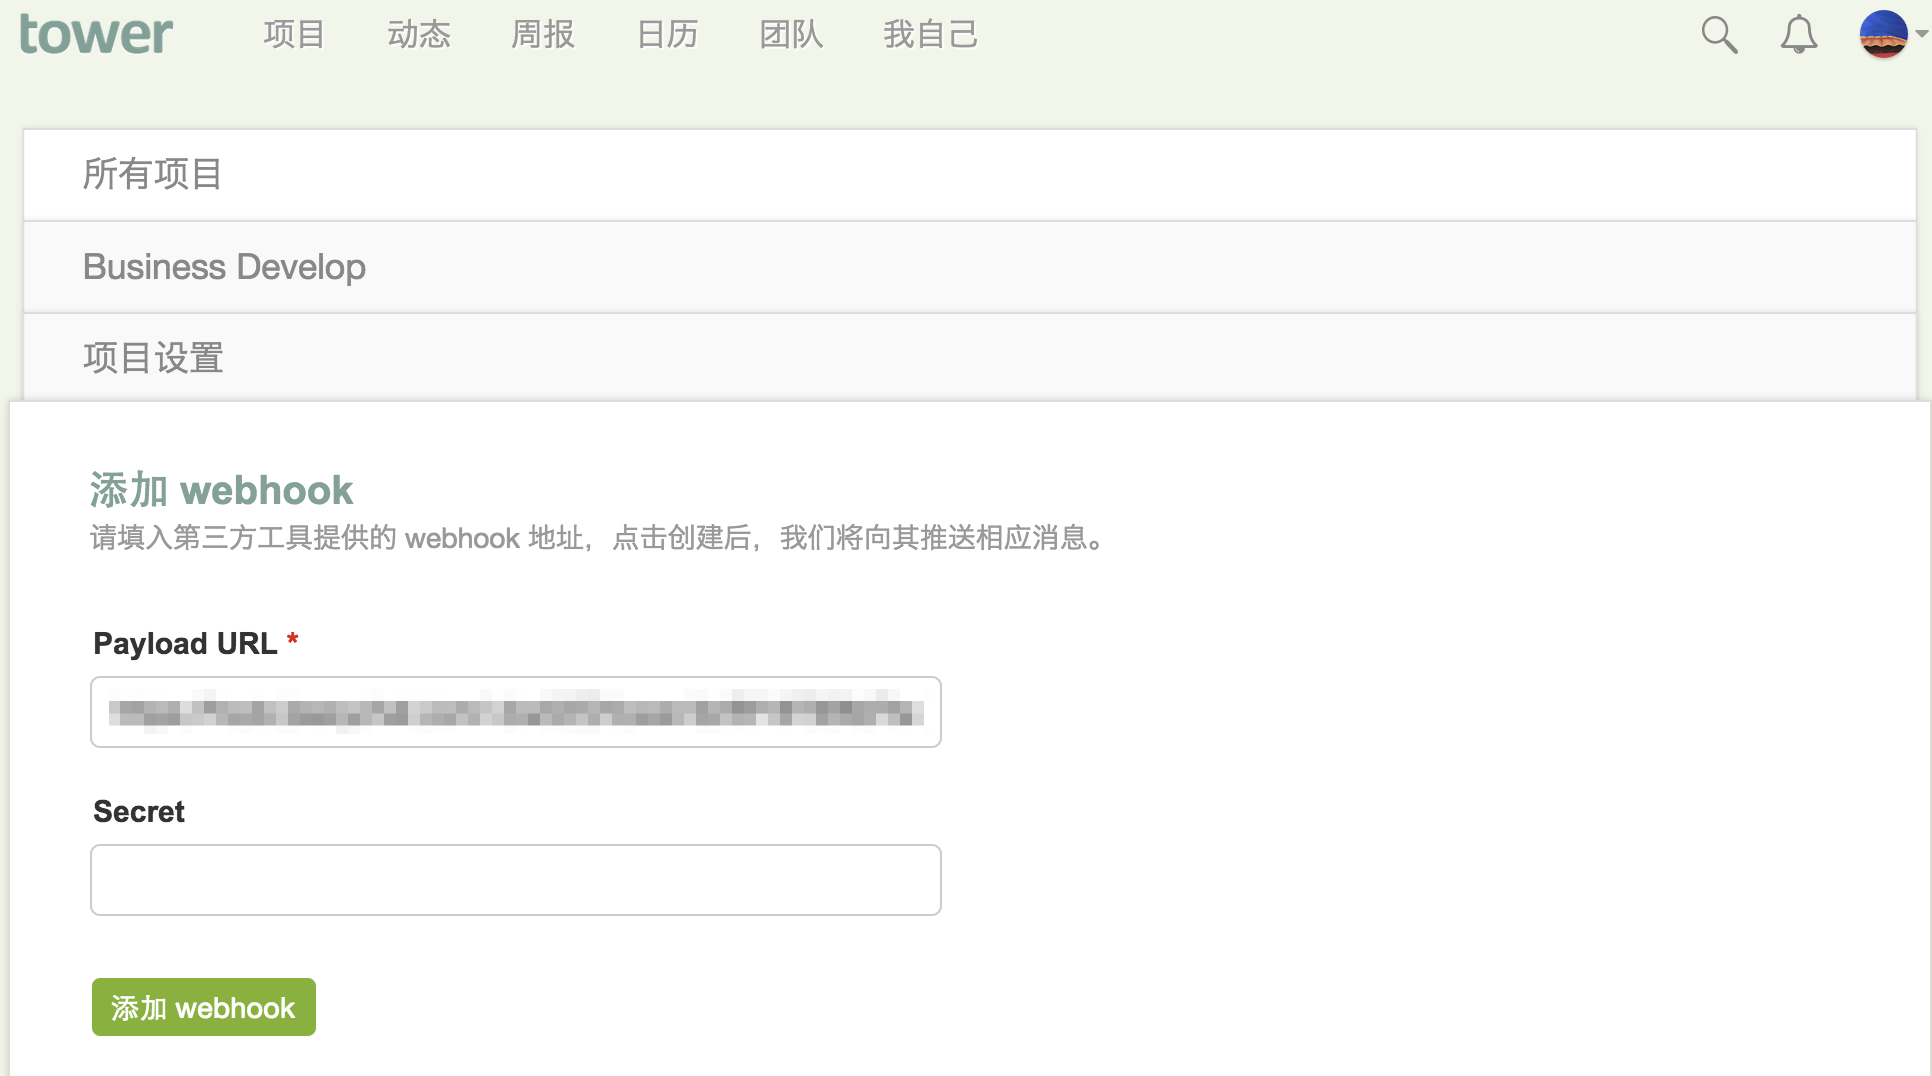
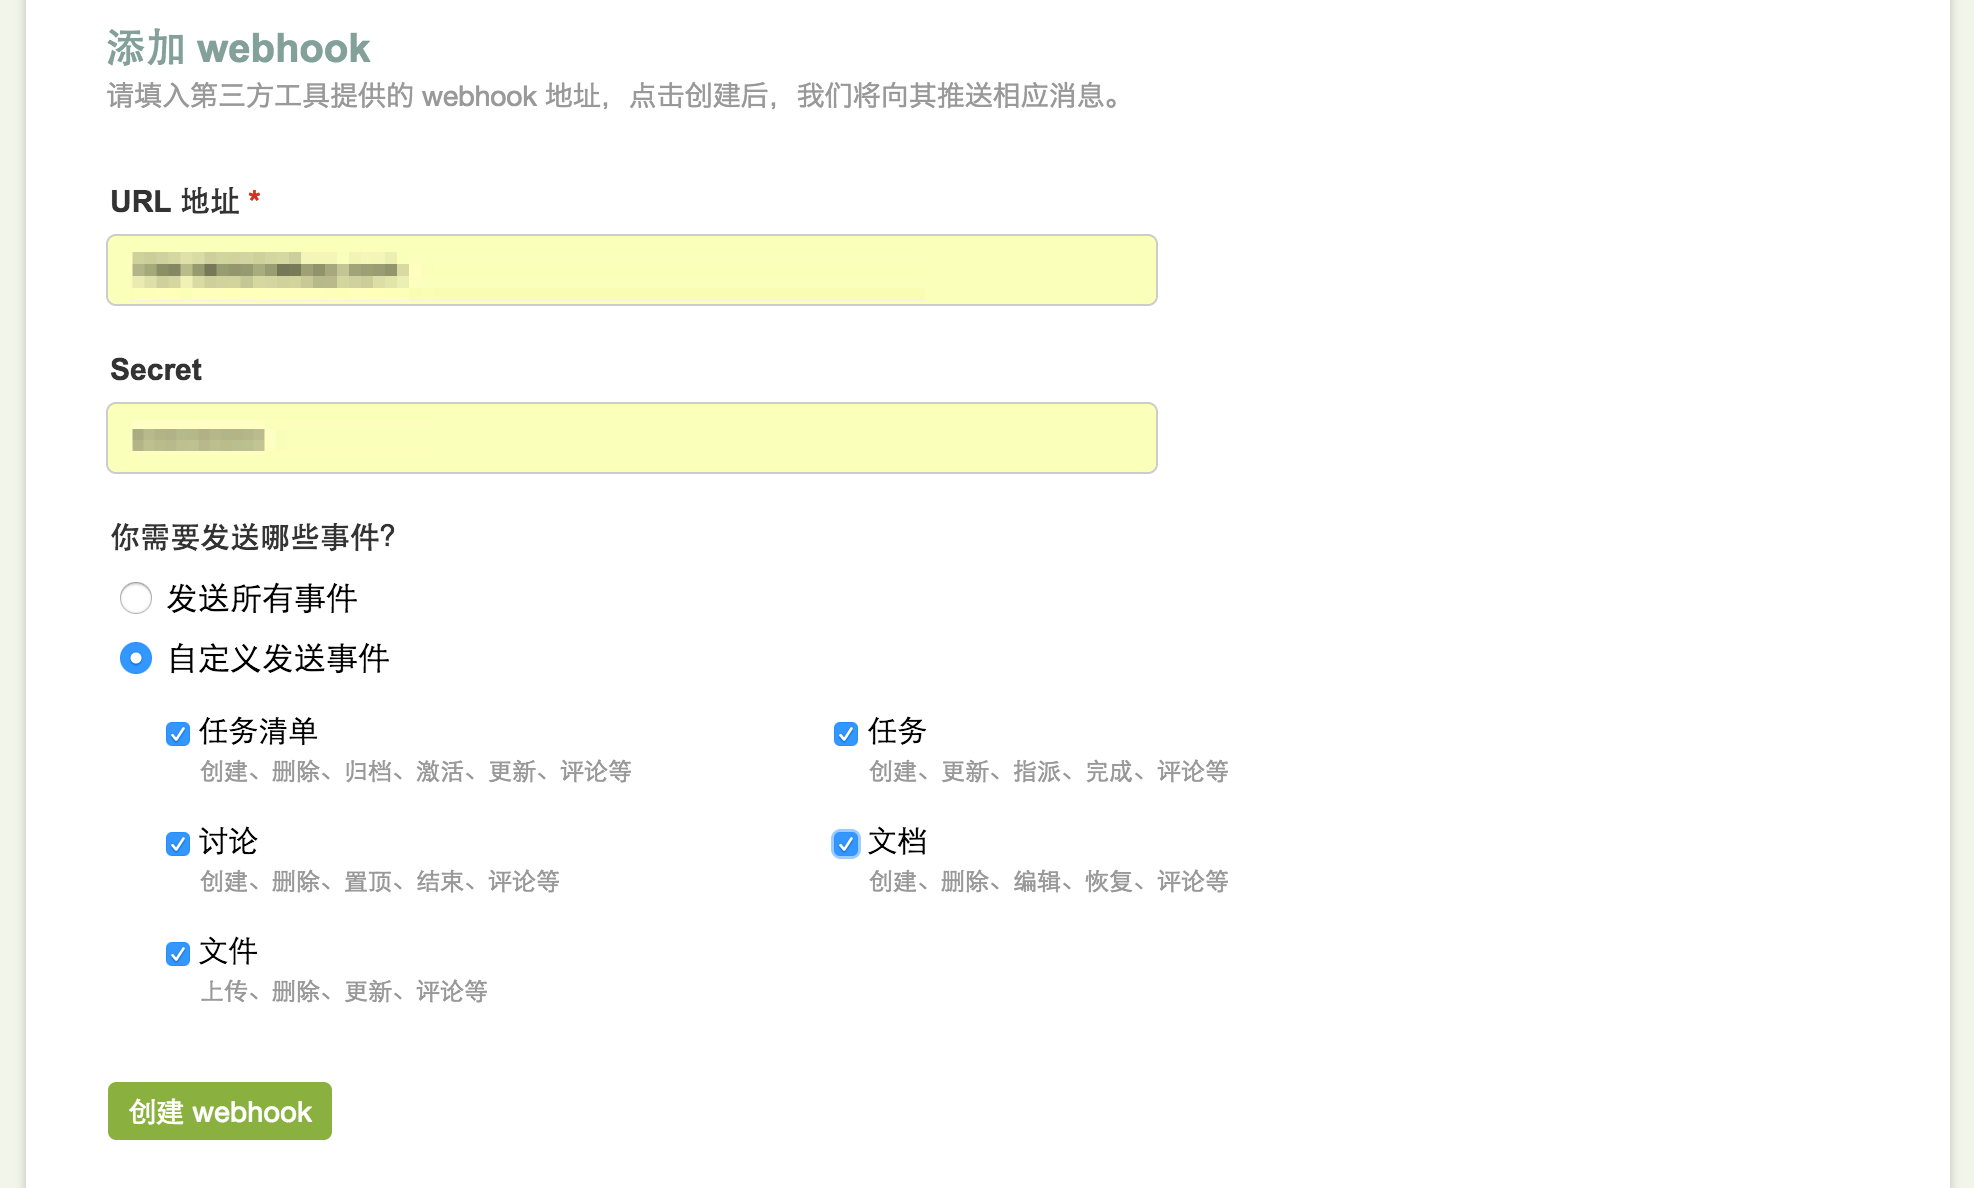
new capture for tower

diff --git a/robots/tower.md b/robots/tower.md
@@ -12,7 +12,7 @@
 
 ## 添加 Webhook
 
-把 BearyChat 生成的 hook 地址填入 PayLoad URL ,再点击 添加 webhook 即可完成操作
+把 BearyChat 生成的 webhook 地址填入 「URL地址」，再点击「创建 webhook」按钮即可完成操作
 
 ![](/images/tutorial/tower_setting_done.png)
 
